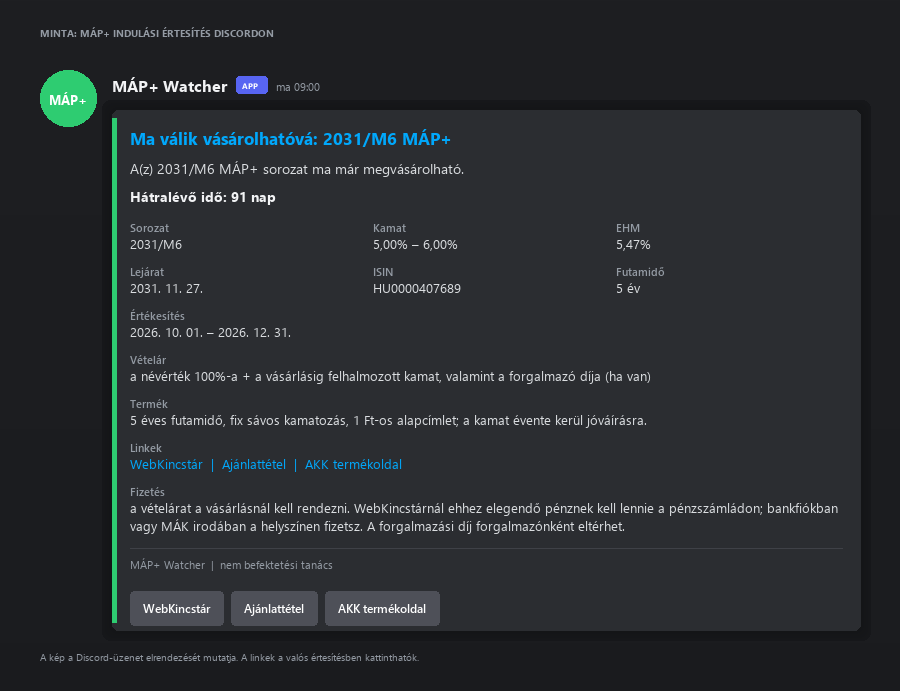
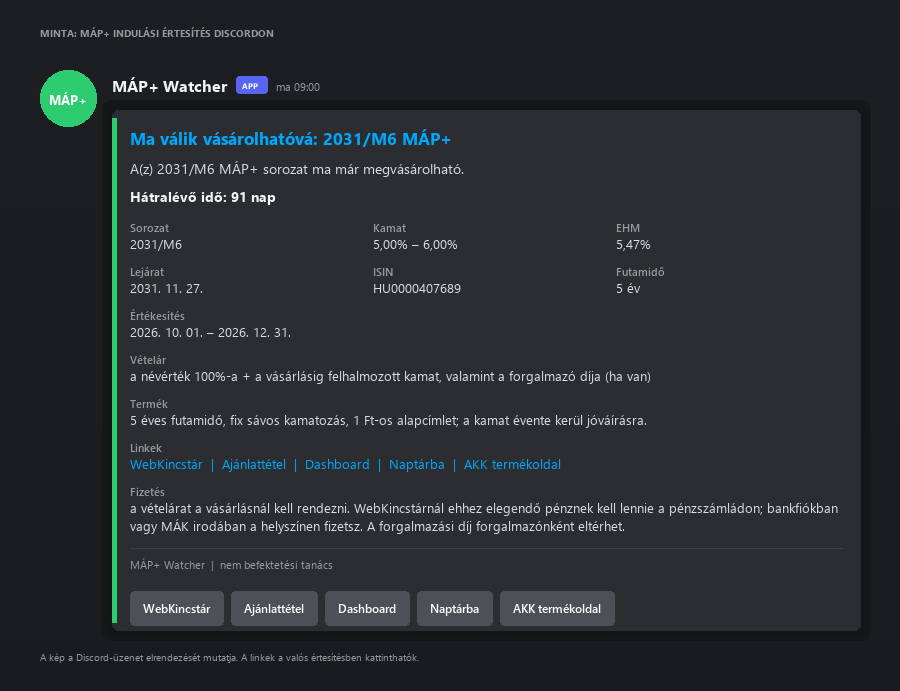
Dashboard és Discord minta frissítése a kalkulátorral

Changed region(s): [[0.3733, 0.8509, 0.6844, 0.9117], [0.3422, 0.6686, 0.6222, 0.699]]

diff --git a/README.md b/README.md
@@ -87,6 +87,10 @@ A GitHub Pages dashboard ugyanezt az adatot mutatja böngészőben:
 - hozamkalkulátor a befektetett összeg alapján,
 - letölthető **naptárfájl** (`.ics`) az indulási és zárónapokkal.
 
+![Dashboard – összehasonlítás és hozamkalkulátor](docs/dashboard-calculator.png)
+
+*Az összehasonlító táblázat és a hozamkalkulátor a dashboard alsó részén.*
+
 A dashboardot a `Dashboard` workflow generálja, és GitHub Pages artifactként
 publikálja, nem commitol a repóba. A naptárfájl a dashboardról tölthető le:
 `map-plusz.ics`. A Discord és Telegram **Dashboard** gombja a weboldalra,
